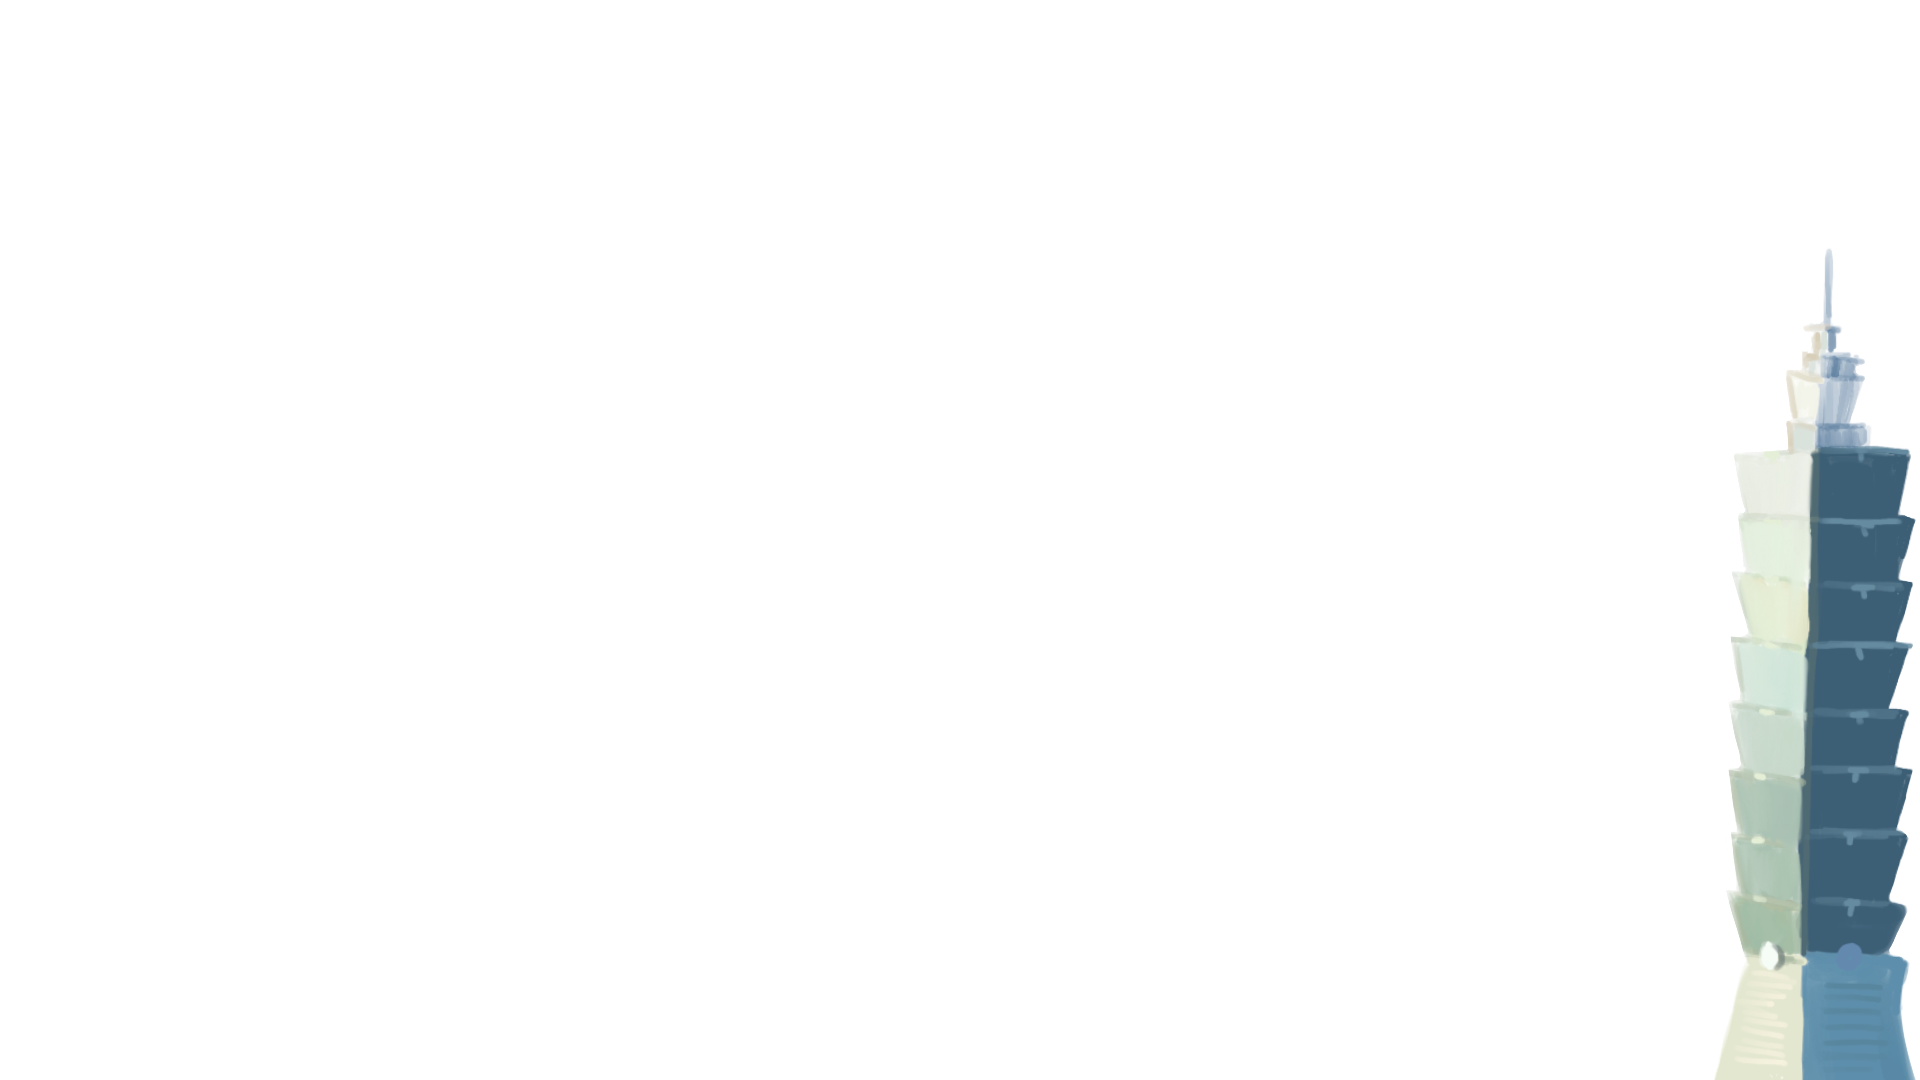
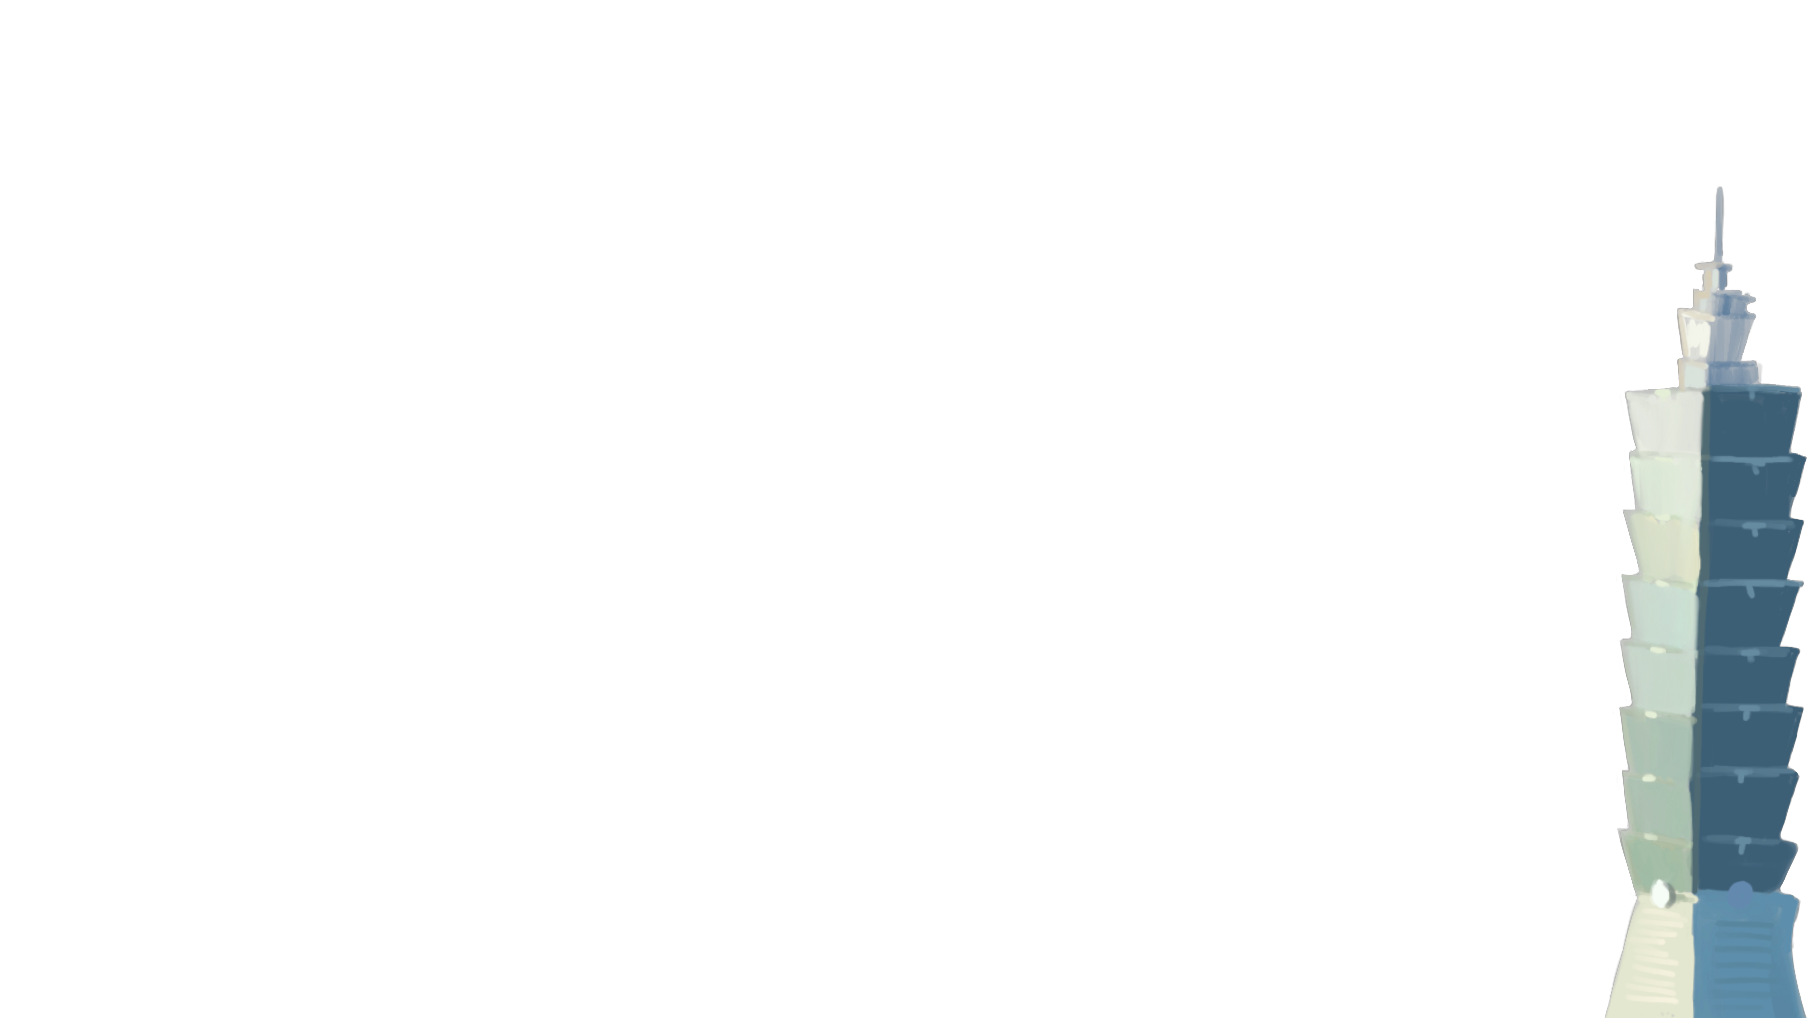
a

Changed region(s): [[0.8967, 0.1827, 1.0, 1.0], [0.8658, 0.944, 0.8967, 1.0], [0.9895, 0.8831, 1.0, 0.9136]]

diff --git a/css/style.css b/css/style.css
@@ -269,10 +269,13 @@ h6,
   transform: rotateY(0deg);
 }
 
-.front img,
-.back img {
+.front img{
   width: 100%; /* Set a fixed width (adjust as needed) */
   height: auto; /* Maintain aspect ratio */
+}
+.back img{
+  width: 50%;
+  height: auto;
 }
 
 .back {
